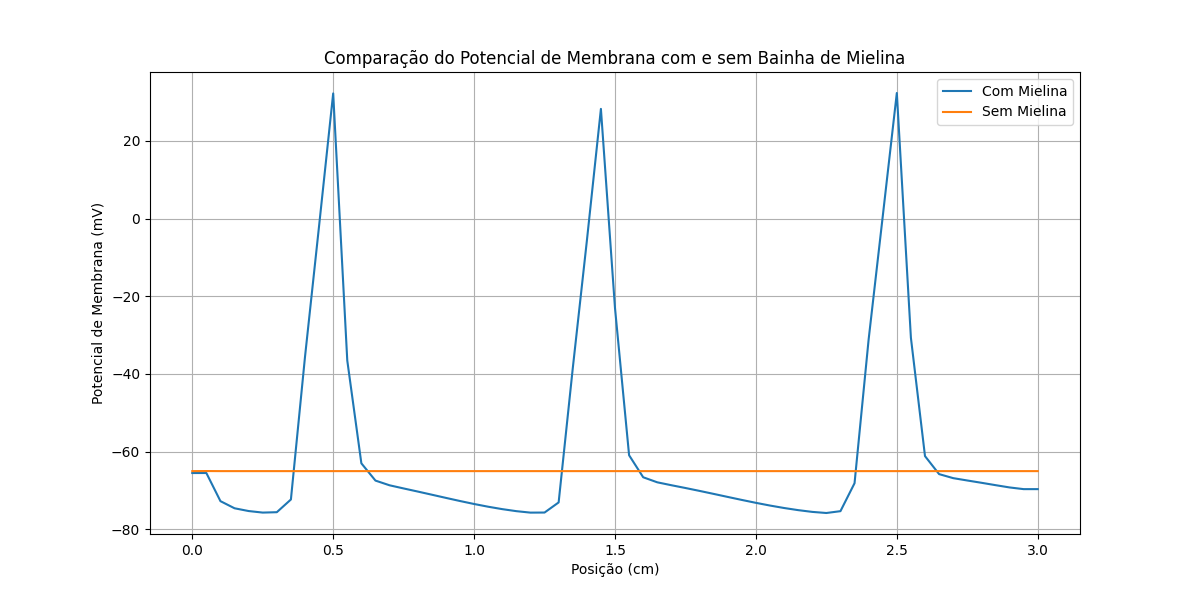
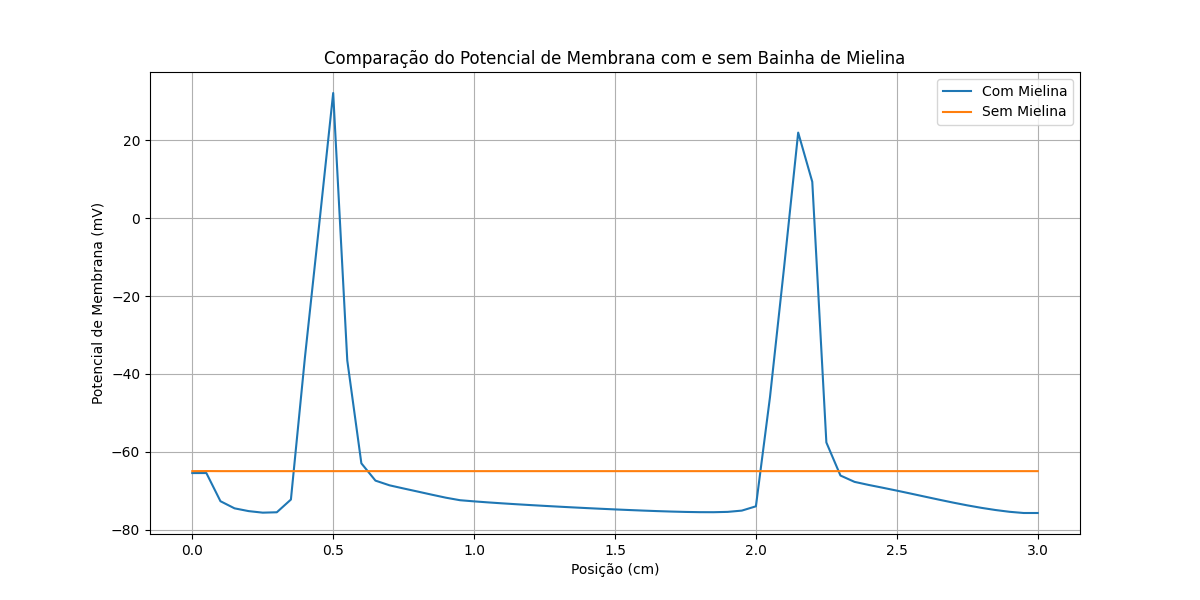
o fim agora graças a Deus

diff --git a/main.py b/main.py
@@ -85,6 +85,7 @@ def hodgkin_huxley_1D(params):
     h0 = params["h0"]
     n0 = params["n0"]
     J = np.array(params["J"])
+
     Mie = np.array(params.get("Mie", np.zeros(int(L_max / dx) + 1)))
     
     # Inicializar variáveis
@@ -169,9 +170,8 @@ def hodgkin_huxley_1D_mie(params):
     h0 = params["h0"]
     n0 = params["n0"]
     J = np.array(params["J"])
-    Mie = np.array(params.get("Mie", np.zeros(int(L_max / dx) + 1)))
-    print(Mie.shape)
-    Mie[20:40] = 1  # Regiões mielinizadas entre 50 e 150
+    Mie = params["Mie"]
+    
 
     # Inicializar variáveis
     n_x = int(L_max / dx) + 1
@@ -319,20 +319,37 @@ print(f"Descrição: {config.get('descricao', 'Não especificada')}")
 print(f"Autor: {config.get('autor', 'Não especificado')}")
 print(f"Data: {config.get('data', 'Não especificada')}")
 print(f"Versão: {config.get('versao', 'Não especificada')}")
+print(f"Parâmetros: {config.get('parametros', 'Não especificada')}")
+json_file = config.get('parametros', 'Não especificada')
 
 # Carregar parâmetros do parametros.json
-params = parametros_json("parametros.json")
+params = parametros_json(json_file)
+
+if type(params["J"]) == dict:
+    n_x = int(params["L_max"] / params["dx"]) + 1
+    n_t = int(params["T_max"] / params["dt"]) + 1
+
+    # Inicializando J como zeros (ou baseado em algum padrão de estimulação)
+    position_init =  int(params["J"]["inicio"]/params["dx"])
+    position_final = int(params["J"]["fim"]/params["dx"])
+    valor = params["J"]["valor"]
+    params["J"] = np.zeros((n_t, n_x))
+
+    if position_init == position_final:
+        params["J"][:, position_init] = valor  # Estímulo de ? µA/cm²
+    else:
+        params["J"][:, position_init:position_final] = valor  # Estímulo de ? µA/cm²
+
+if type(params["Mie"]) == dict:
+    position_init =  int(params["Mie"]["inicio"]/params["dx"])
+    position_final = int(params["Mie"]["fim"]/params["dx"])
+    params["Mie"] = np.zeros(int(params["L_max"] / params["dx"]) + 1)
+    if position_init == position_final:
+        params["Mie"][position_init] = 1  # Estímulo de ? µA/cm²
+    else:
+        params["Mie"][position_init:position_final] = 1  # Estímulo de ? µA/cm²
 
 
-n_x = int(params["L_max"] / params["dx"]) + 1
-n_t = int(params["T_max"] / params["dt"]) + 1
-
-# Inicializando J como zeros (ou baseado em algum padrão de estimulação)
-params["J"] = np.zeros((n_t, n_x))
-
-params["J"][:, 1] = 20  # Estímulo de 50 µA/cm²
-
-# Simulação
 V_time, n_final, m_final, h_final = hodgkin_huxley_1D(params)
 V_time_mie, n_final_mie, m_final_mie, h_final_mie = hodgkin_huxley_1D_mie(params)
 
